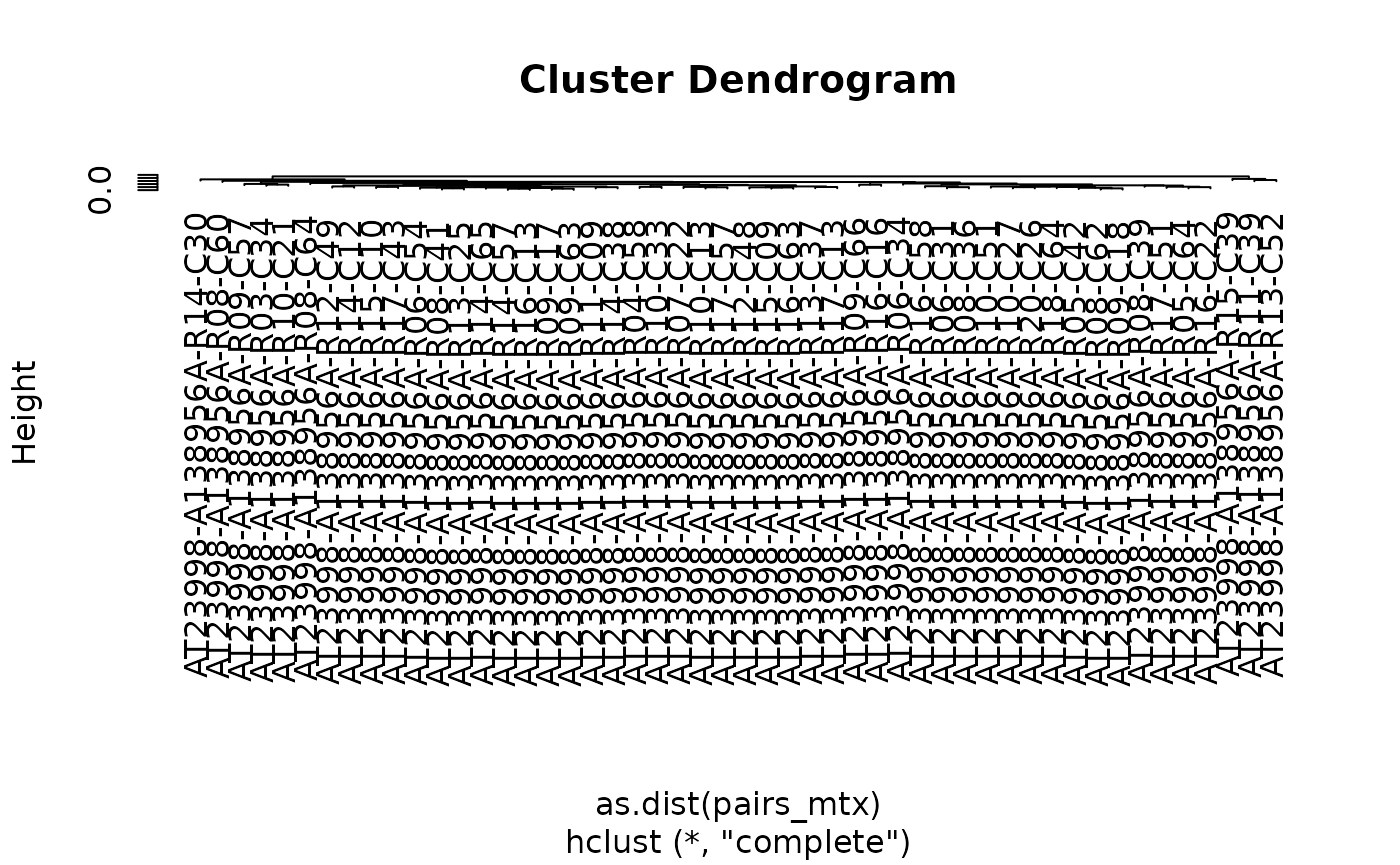
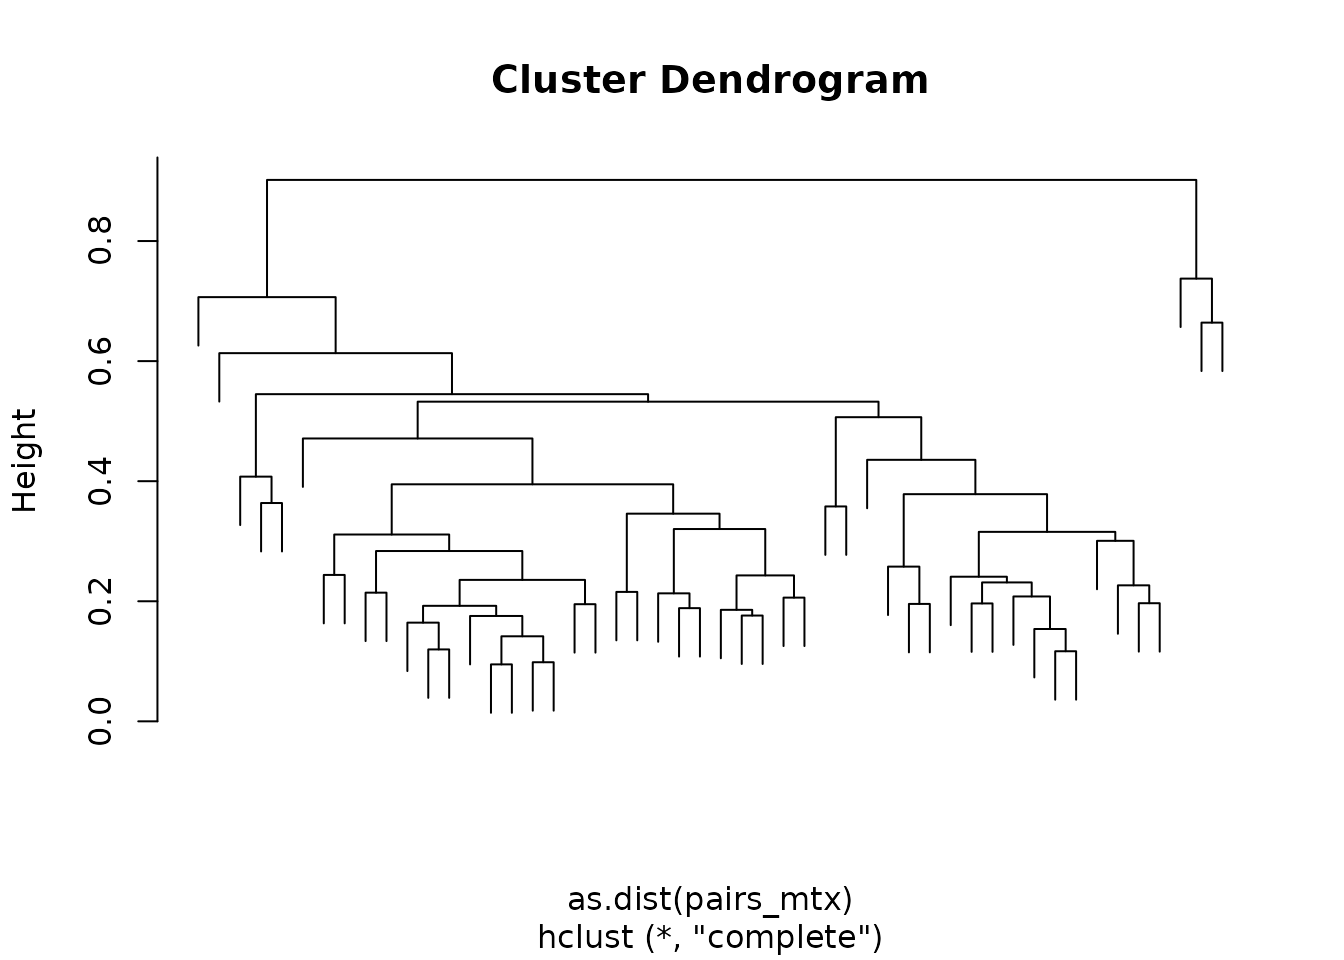
Deploying to gh-pages from @ molonc/dlptools@8439dae5f01645e113de943c740ae66ee1bcca60 🚀

diff --git a/articles/pairwise-differences.html b/articles/pairwise-differences.html
@@ -71,27 +71,17 @@
     
 <div class="sourceCode" id="cb1"><pre class="downlit sourceCode r">
 <code class="sourceCode R"><span><span class="kw"><a href="https://rdrr.io/r/base/library.html" class="external-link">library</a></span><span class="op">(</span><span class="va"><a href="https://molonc.github.io/dlptools/">dlptools</a></span><span class="op">)</span></span></code></pre></div>
-<p>The functions here were inspired by a paper called: Genomic evolution
-and cellular states of whole-genome doubling in ovarian cancer. By
-Weiner et al. 2025, some folks at MSKCC.</p>
-<p>The basic idea across all of them is just to count the numbers of
-bins that are different in state between two cells, divided by the
-number of bins considered. Then we can do things like fit a beta
-distribution to identify outliers, or do other clustering to find groups
-of similar/different cells, etc.</p>
+<p>The functions here were inspired by a paper called: <em>Genomic
+evolution and cellular states of whole-genome doubling in ovarian
+cancer.</em> By Weiner et al. 2025, some folks at MSKCC.</p>
+<p>The basic idea is to count the numbers of bins that are different in
+state between two cells, divided by the number of bins considered. Then
+we can do things like fit a beta distribution to identify outliers, or
+do other clustering to find groups of similar/different cells, etc.</p>
 <p>These functions will make that a bit easier.</p>
 <p>First some toy data:</p>
 <div class="sourceCode" id="cb2"><pre class="downlit sourceCode r">
-<code class="sourceCode R"><span><span class="va">reads_df</span> <span class="op">&lt;-</span> <span class="fu">vroom</span><span class="fu">::</span><span class="fu"><a href="https://vroom.r-lib.org/reference/vroom.html" class="external-link">vroom</a></span><span class="op">(</span><span class="st">"data/example_reads.tsv.gz"</span><span class="op">)</span></span>
-<span><span class="co">#&gt; <span style="font-weight: bold;">Rows: </span><span style="color: #0000BB;">620600</span> <span style="font-weight: bold;">Columns: </span><span style="color: #0000BB;">11</span></span></span>
-<span><span class="co">#&gt; <span style="color: #00BBBB;">──</span> <span style="font-weight: bold;">Column specification</span> <span style="color: #00BBBB;">────────────────────────────────────────────────────────</span></span></span>
-<span><span class="co">#&gt; <span style="font-weight: bold;">Delimiter:</span> "\t"</span></span>
-<span><span class="co">#&gt; <span style="color: #BB0000;">chr</span> (2): cell_id, chr</span></span>
-<span><span class="co">#&gt; <span style="color: #00BB00;">dbl</span> (6): start, end, state, gc, map, reads</span></span>
-<span><span class="co">#&gt; <span style="color: #BBBB00;">lgl</span> (3): ideal, valid, is_low_mappability</span></span>
-<span><span class="co">#&gt; </span></span>
-<span><span class="co">#&gt; <span style="color: #00BBBB;">ℹ</span> Use `spec()` to retrieve the full column specification for this data.</span></span>
-<span><span class="co">#&gt; <span style="color: #00BBBB;">ℹ</span> Specify the column types or set `show_col_types = FALSE` to quiet this message.</span></span>
+<code class="sourceCode R"><span><span class="va">reads_df</span> <span class="op">&lt;-</span> <span class="fu">vroom</span><span class="fu">::</span><span class="fu"><a href="https://vroom.r-lib.org/reference/vroom.html" class="external-link">vroom</a></span><span class="op">(</span><span class="st">"data/example_reads.tsv.gz"</span>, show_col_types <span class="op">=</span> <span class="cn">FALSE</span><span class="op">)</span></span>
 <span></span>
 <span><span class="co"># only using a few cells to demonstrate functions below</span></span>
 <span><span class="va">targ_cells</span> <span class="op">&lt;-</span> <span class="fu"><a href="https://rdrr.io/r/base/unique.html" class="external-link">unique</a></span><span class="op">(</span><span class="va">reads_df</span><span class="op">$</span><span class="va">cell_id</span><span class="op">)</span><span class="op">[</span><span class="fl">1</span><span class="op">:</span><span class="fl">50</span><span class="op">]</span></span>
@@ -109,17 +99,38 @@ of similar/different cells, etc.</p>
 <span><span class="co">#&gt; <span style="color: #BCBCBC;">4</span> AT23998-A138956A-R03-… 1     1.50<span style="color: #949494;">e</span>6 2  <span style="color: #949494;">e</span>6     4  0.539 TRUE  0.963   282 TRUE </span></span>
 <span><span class="co">#&gt; <span style="color: #BCBCBC;">5</span> AT23998-A138956A-R03-… 1     2.00<span style="color: #949494;">e</span>6 2.5<span style="color: #949494;">e</span>6     4  0.595 TRUE  0.997   385 TRUE </span></span>
 <span><span class="co">#&gt; <span style="color: #949494;"># ℹ 1 more variable: is_low_mappability &lt;lgl&gt;</span></span></span></code></pre></div>
-<p>First, we can measure pairwise distances between all cells. Warning,
-this function is <em>slow</em>, and the number of pairwise comparisons
-grows with more cells. E.g., 100 cells is 4950 comparisons and takes a
-couple minutes. There is definitely room for improvement here.</p>
+<p><br><br></p>
+<p>Now, we can measure pairwise distances between all cells. This
+involves:</p>
+<ol style="list-style-type: decimal">
+<li>generating all pairwise cell comparisons</li>
+<li>aligning bins for each pair</li>
+<li>collapsing runs of bins based on <em>matched</em> and
+<em>unmatched</em> states between the cell pair – aka segmenting on
+state matches</li>
+<li>filtering small runs (segments) of matches or non-matches</li>
+<li>re-binning the runs</li>
+<li>counting number of non-matching bins, divided by total number of
+bins still considered</li>
+<li>presenting the results for each cell and it’s distances to all other
+cells</li>
+</ol>
+<p><br></p>
+<p>Warning, this function is <em>slow</em>, and the number of pairwise
+comparisons grows with more cells. E.g., 100 cells is 4950 comparisons
+and takes a couple minutes. There is definitely room for improvement
+here.</p>
 <p>Parallelizing will make your life a bit better. Internally, this
 function uses <code>furrr</code>, you just need to set up a plan.</p>
 <div class="sourceCode" id="cb3"><pre class="downlit sourceCode r">
 <code class="sourceCode R"><span><span class="co"># first set up a parallel plan, here with 4 cores being used</span></span>
 <span><span class="fu">future</span><span class="fu">::</span><span class="fu"><a href="https://future.futureverse.org/reference/plan.html" class="external-link">plan</a></span><span class="op">(</span><span class="fu">future</span><span class="fu">::</span><span class="va"><a href="https://future.futureverse.org/reference/multicore.html" class="external-link">multicore</a></span>, workers <span class="op">=</span> <span class="fl">4</span><span class="op">)</span></span>
 <span></span>
-<span><span class="va">pairwise_diffs</span> <span class="op">&lt;-</span> <span class="fu">dlptools</span><span class="fu">::</span><span class="fu"><a href="../reference/pairwise_bin_difference.html">pairwise_bin_difference</a></span><span class="op">(</span><span class="va">reads_df</span><span class="op">)</span></span>
+<span><span class="va">pairwise_diffs</span> <span class="op">&lt;-</span> <span class="fu">dlptools</span><span class="fu">::</span><span class="fu"><a href="../reference/pairwise_bin_difference.html">pairwise_bin_difference</a></span><span class="op">(</span></span>
+<span>  <span class="va">reads_df</span>,</span>
+<span>  <span class="co"># min_seg_length = 2.5e6 # see function documentation. It's the minimum</span></span>
+<span>  <span class="co"># length of a stretch of matching/unmatching bins to consider.</span></span>
+<span><span class="op">)</span></span>
 <span><span class="co">#&gt; [1] "comparing all cells. Gonna take some time."</span></span>
 <span><span class="co">#&gt; [1] "processing: 1225 pairs"</span></span>
 <span></span>
@@ -135,7 +146,11 @@ function uses <code>furrr</code>, you just need to set up a plan.</p>
 <p>which is each cell (<code>index cell</code>) compared to each other
 cell (<code>comp_cell</code>) and some information on the proportion of
 bins different (<code>prop_diff</code>).</p>
+<p>The <code>nearest_neighbour</code> column is a boolean where the
+nearest neighbour of each cell is marked as TRUE.</p>
 <p><br><br><br></p>
+<hr>
+<p><strong>Side Note</strong></p>
 <p>The function <code><a href="../reference/pairwise_bin_difference.html">dlptools::pairwise_bin_difference()</a></code> has a
 <code>cells</code> parameter. Leaving it empty, the default, compares
 all cells in a pairwise manner.</p>
@@ -145,13 +160,15 @@ all cells in a pairwise manner.</p>
 <span>  <span class="va">reads_df</span>,</span>
 <span>  cells <span class="op">=</span> <span class="st">"some_cell_id"</span></span>
 <span><span class="op">)</span></span></code></pre></div>
-<p>Alternatively, this will just compared these cells to themselves:</p>
+<p>Alternatively, specifying two or more cells will just compared the
+specified cells to each other:</p>
 <div class="sourceCode" id="cb5"><pre class="downlit sourceCode r">
 <code class="sourceCode R"><span><span class="fu">dlptools</span><span class="fu">::</span><span class="fu"><a href="../reference/pairwise_bin_difference.html">pairwise_bin_difference</a></span><span class="op">(</span></span>
 <span>  <span class="va">reads_df</span>,</span>
 <span>  cells <span class="op">=</span> <span class="fu"><a href="https://rdrr.io/r/base/c.html" class="external-link">c</a></span><span class="op">(</span><span class="st">"cell_id_one"</span>, <span class="st">"cell_id_two"</span>, <span class="st">"cell_id_three"</span><span class="op">)</span></span>
 <span><span class="op">)</span></span></code></pre></div>
-<p><br></p>
+<hr>
+<p><br><br></p>
 <p>The nearest neighbour of each cell is marked in the dataframe
 returned above. This function now takes that information, fits a beta
 distribution to those nearest neighbours, then returns outlier cells
@@ -167,24 +184,17 @@ based on that distribution:</p>
 <span><span class="co">#&gt; <span style="color: #BCBCBC;">2</span> AT23998-A138956A-R13-C52                  0.834   0.664 AT23998-A138956A-R11-…</span></span>
 <span><span class="co">#&gt; <span style="color: #BCBCBC;">3</span> AT23998-A138956A-R15-C39                  0.837   0.685 AT23998-A138956A-R11-…</span></span></code></pre></div>
 <p><br><br><br></p>
-<p>There is a quick plot that can be made to visualize these
+<p>There is a simple plot that can be made to visualize these
 distances:</p>
 <div class="sourceCode" id="cb7"><pre class="downlit sourceCode r">
 <code class="sourceCode R"><span><span class="fu">dlptools</span><span class="fu">::</span><span class="fu"><a href="../reference/plot_nnd_outlier_cells.html">plot_nnd_outlier_cells</a></span><span class="op">(</span></span>
 <span>  <span class="va">pairwise_diffs</span>, <span class="va">outlier_cells</span></span>
 <span><span class="op">)</span></span></code></pre></div>
-<p><img src="pairwise-differences_files/figure-html/unnamed-chunk-7-1.png" width="700"></p>
+<p><img src="pairwise-differences_files/figure-html/unnamed-chunk-7-1.png" width="576"></p>
 <p><br><br><br></p>
-<p>There is also an option to return a pairwise matrix from the initial
-distance measurement:</p>
+<p>You can also convert those distance measurements into a pairwise
+distance matrix:</p>
 <div class="sourceCode" id="cb8"><pre class="downlit sourceCode r">
-<code class="sourceCode R"><span><span class="fu">dlptools</span><span class="fu">::</span><span class="fu"><a href="../reference/pairwise_bin_difference.html">pairwise_bin_difference</a></span><span class="op">(</span></span>
-<span>  <span class="va">reads_df</span>,</span>
-<span>  return_pairs_matrix <span class="op">=</span> <span class="cn">TRUE</span></span>
-<span><span class="op">)</span></span></code></pre></div>
-<p>or best done afterwards so you don’t have to wait for the long
-calculation again:</p>
-<div class="sourceCode" id="cb9"><pre class="downlit sourceCode r">
 <code class="sourceCode R"><span><span class="va">pairs_mtx</span> <span class="op">&lt;-</span> <span class="fu">dlptools</span><span class="fu">::</span><span class="fu"><a href="../reference/convert_dists_to_pairwise.html">convert_dists_to_pairwise</a></span><span class="op">(</span><span class="va">pairwise_diffs</span><span class="op">)</span></span>
 <span></span>
 <span><span class="va">pairs_mtx</span><span class="op">[</span><span class="fl">1</span><span class="op">:</span><span class="fl">4</span>, <span class="fl">1</span><span class="op">:</span><span class="fl">4</span><span class="op">]</span></span>
@@ -200,14 +210,23 @@ calculation again:</p>
 <span><span class="co">#&gt;   AT23998-A138956A-R04-C58                0.2864141                0.3495224</span></span>
 <span><span class="co">#&gt;   AT23998-A138956A-R05-C42                0.0000000                0.2165719</span></span>
 <span><span class="co">#&gt;   AT23998-A138956A-R05-C64                0.2165719                0.0000000</span></span></code></pre></div>
+<p><br></p>
+<p>or if you know you only want this, it can be returned with the
+function above:</p>
+<div class="sourceCode" id="cb9"><pre class="downlit sourceCode r">
+<code class="sourceCode R"><span><span class="fu">dlptools</span><span class="fu">::</span><span class="fu"><a href="../reference/pairwise_bin_difference.html">pairwise_bin_difference</a></span><span class="op">(</span></span>
+<span>  <span class="va">reads_df</span>,</span>
+<span>  return_pairs_matrix <span class="op">=</span> <span class="cn">TRUE</span> <span class="co"># this option here</span></span>
+<span><span class="op">)</span></span></code></pre></div>
+<p><br><br></p>
 <p>A matrix like this can then be useful for other analyses, like if you
 wanted to do some clustering:</p>
 <div class="sourceCode" id="cb10"><pre class="downlit sourceCode r">
 <code class="sourceCode R"><span><span class="va">pairs_mtx</span> <span class="op">|&gt;</span></span>
 <span>  <span class="fu"><a href="https://rdrr.io/r/stats/dist.html" class="external-link">as.dist</a></span><span class="op">(</span><span class="op">)</span> <span class="op">|&gt;</span></span>
 <span>  <span class="fu"><a href="https://rdrr.io/r/stats/hclust.html" class="external-link">hclust</a></span><span class="op">(</span><span class="op">)</span> <span class="op">|&gt;</span></span>
-<span>  <span class="fu"><a href="https://rdrr.io/r/graphics/plot.default.html" class="external-link">plot</a></span><span class="op">(</span><span class="op">)</span></span></code></pre></div>
-<p><img src="pairwise-differences_files/figure-html/unnamed-chunk-10-1.png" width="700"></p>
+<span>  <span class="fu"><a href="https://rdrr.io/r/graphics/plot.default.html" class="external-link">plot</a></span><span class="op">(</span>labels <span class="op">=</span> <span class="cn">FALSE</span><span class="op">)</span></span></code></pre></div>
+<p><img src="pairwise-differences_files/figure-html/unnamed-chunk-10-1.png" width="672"></p>
   </main>
 </div>
 
